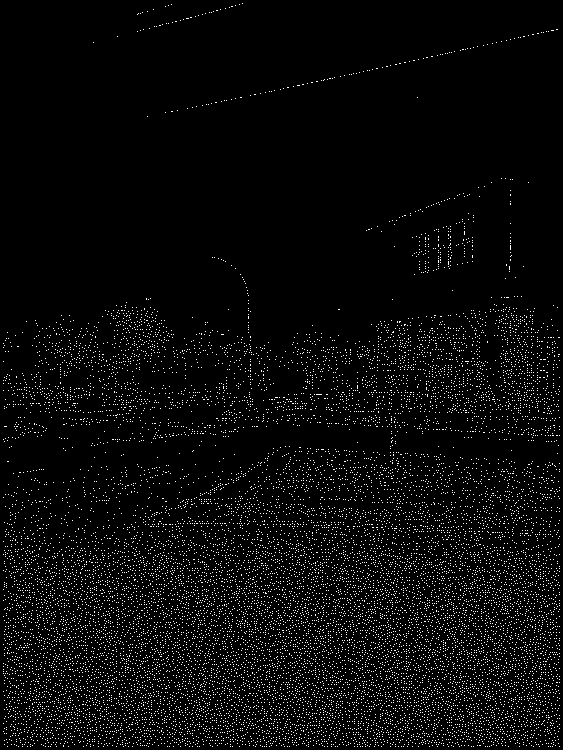
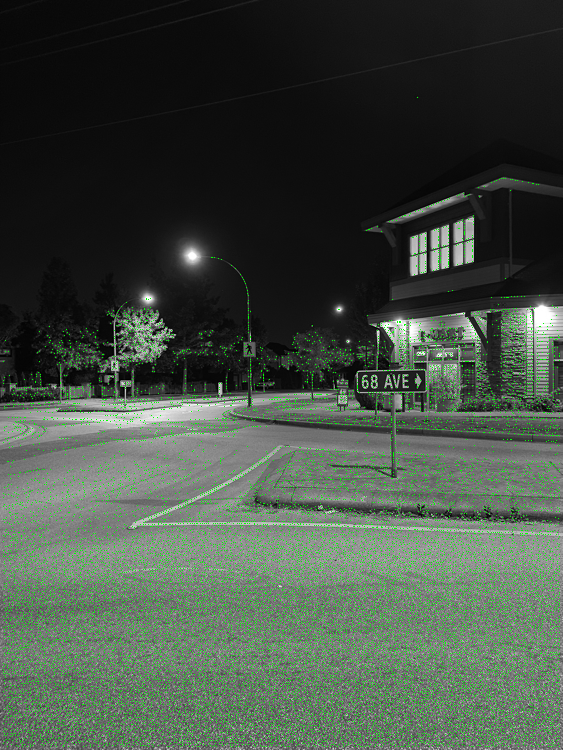
made a nicer visual for FAST

diff --git a/A2/A2.m b/A2/A2.m
@@ -54,10 +54,13 @@
     allImArr = {S1_im1, S1_im2, S2_im1, S2_im2, S2_im3, S2_im4, S3_im1, S3_im2, S3_im3, S3_im4, S4_im1, S4_im2};
 %Part 2
     %Save the visualization of first images in image set 1 and image set 2
-    imwrite(my_fast_detector(S1_im1, 5, 1, 12), 'S1-fast.png');
-    imwrite(my_fast_detector(S2_im1, 10, 10, 12), 'S2-fast.png');
+    [~ ,S1_fast] = my_fast_detector(S1_im1, 5, 1, 12);
+    [~ ,S2_fast] = my_fast_detector(S2_im1, 8, 45, 12);
+    imshow(S2_fast)
+    imwrite(S1_fast, 'S1-fast.png');
+    imwrite(S2_fast, 'S2-fast.png');
     %Define our function
-    function corners = my_fast_detector(image, thresholdDetect, thresholdMaxima, N)
+    function [corners, visual] = my_fast_detector(image, thresholdDetect, thresholdMaxima, N)
         %Detect corners
             [lenX, lenY, ~] = size(image);
             grayImage = rgb2gray(image);
@@ -130,6 +133,15 @@
         %Non-maximal suppression
             localmax = imdilate(corners, ones(3));
             corners = ((corners == localmax) .* (corners > thresholdMaxima));
+        %Green Visual
+            visual = repmat(grayImage, [1 1 3]);
+            for y=4:lenY-3
+                for x=4:lenX-3
+                    if corners(x, y) ~= 0 
+                        visual(x, y, :) = [0, 255, 0];
+                    end
+                end
+            end
     end
 
     
